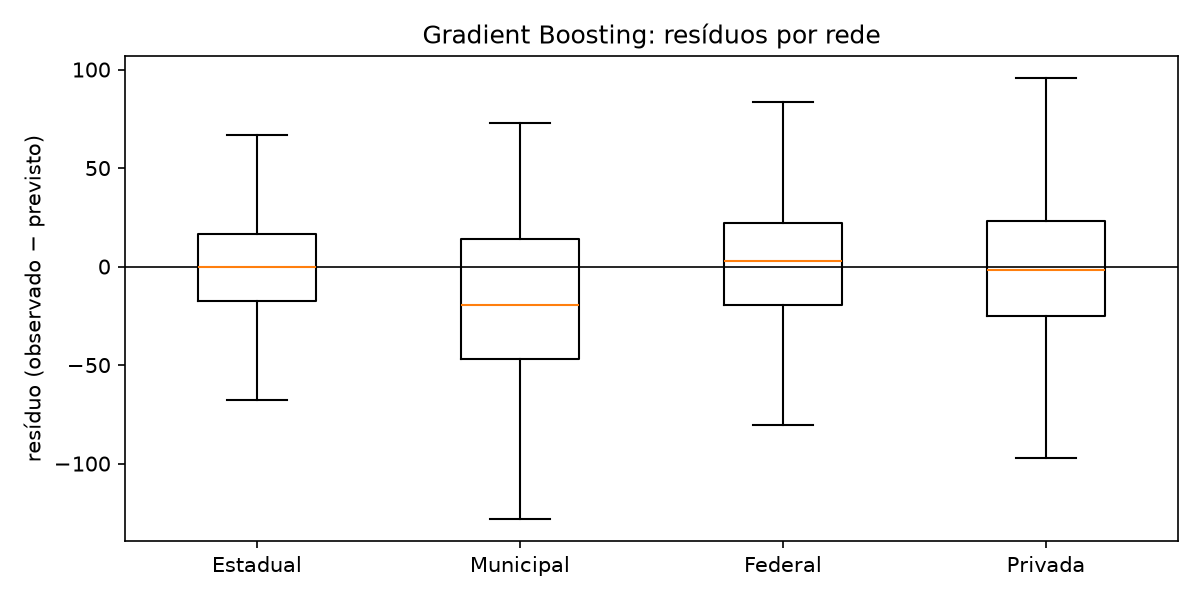
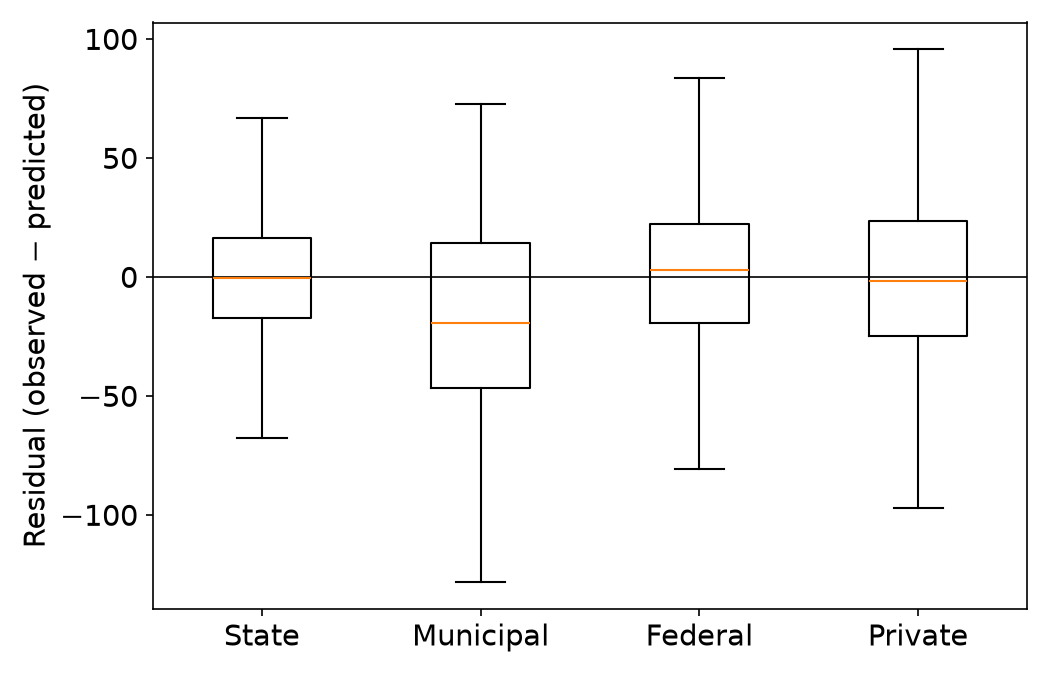
feat: figuras do artigo em inglês, sem título interno e com fonte maior

diff --git a/scripts/eda.py b/scripts/eda.py
@@ -19,7 +19,10 @@ from enem_school import config  # noqa: E402
 from enem_school import eda  # noqa: E402
 
 FIGURES = config.REPORTS_DIR / "figures"
-TARGET_LABEL = "Nota média da escola (ENEM 2025)"
+TARGET_LABEL = "School mean score (ENEM 2025)"
+EN = {"Estadual": "State", "Privada": "Private", "Norte": "North", "Nordeste": "Northeast",
+      "Sudeste": "Southeast", "Sul": "South", "Centro-Oeste": "Center-West"}
+LARGE_FONT = {"font.size": 14}
 
 
 def save(fig: plt.Figure, name: str) -> str:
@@ -34,20 +37,31 @@ def table(df: pd.DataFrame, floatfmt: str = ".3f") -> str:
 
 
 def plot_target(schools: pd.DataFrame, cutoff: float) -> str:
-    fig, ax = plt.subplots(figsize=(7, 4))
+    with plt.rc_context(LARGE_FONT):
+        return _plot_target(schools, cutoff)
+
+
+def _plot_target(schools: pd.DataFrame, cutoff: float) -> str:
+    fig, ax = plt.subplots(figsize=(6.5, 4.5))
     ax.hist(schools[eda.TARGET], bins=60, color="#4C72B0")
-    ax.axvline(cutoff, color="#C44E52", linestyle="--", label=f"Quartil superior (≥ {cutoff:.1f})")
-    ax.set(xlabel=TARGET_LABEL, ylabel="Escolas")
+    ax.axvline(cutoff, color="#C44E52", linestyle="--", label=f"Upper quartile (≥ {cutoff:.1f})")
+    ax.set(xlabel=TARGET_LABEL, ylabel="Schools")
     ax.legend()
     return save(fig, "target_hist.png")
 
 
 def plot_target_by(schools: pd.DataFrame, column: str, labels: dict[int, str], name: str, xlabel: str) -> str:
+    with plt.rc_context(LARGE_FONT):
+        return _plot_target_by(schools, column, labels, name, xlabel)
+
+
+def _plot_target_by(schools: pd.DataFrame, column: str, labels: dict[int, str], name: str, xlabel: str) -> str:
     order = eda.target_by(schools, column, labels).index
     groups = [schools.loc[schools[column].map(labels) == g, eda.TARGET] for g in order]
-    fig, ax = plt.subplots(figsize=(7, 4))
-    ax.boxplot(groups, tick_labels=order, showfliers=False)
+    fig, ax = plt.subplots(figsize=(6, 4.5))
+    ax.boxplot(groups, tick_labels=[EN.get(g, g) for g in order], showfliers=False)
     ax.set(xlabel=xlabel, ylabel=TARGET_LABEL)
+    ax.tick_params(axis="x", rotation=20)
     return save(fig, name)
 
 
@@ -98,9 +112,9 @@ def main() -> int:
     figures = {
         "target": plot_target(schools, cutoff),
         "dependencia": plot_target_by(
-            schools, "TP_DEPENDENCIA", eda.DEPENDENCIA_LABELS, "target_by_dependencia.png", "Rede"
+            schools, "TP_DEPENDENCIA", eda.DEPENDENCIA_LABELS, "target_by_dependencia.png", "Administrative network"
         ),
-        "regiao": plot_target_by(schools, "CO_REGIAO", eda.REGIAO_LABELS, "target_by_regiao.png", "Região"),
+        "regiao": plot_target_by(schools, "CO_REGIAO", eda.REGIAO_LABELS, "target_by_regiao.png", "Region"),
         "counts": plot_count_features(schools),
         "corr": plot_correlations(corr),
         "noise": plot_noise(noise),
